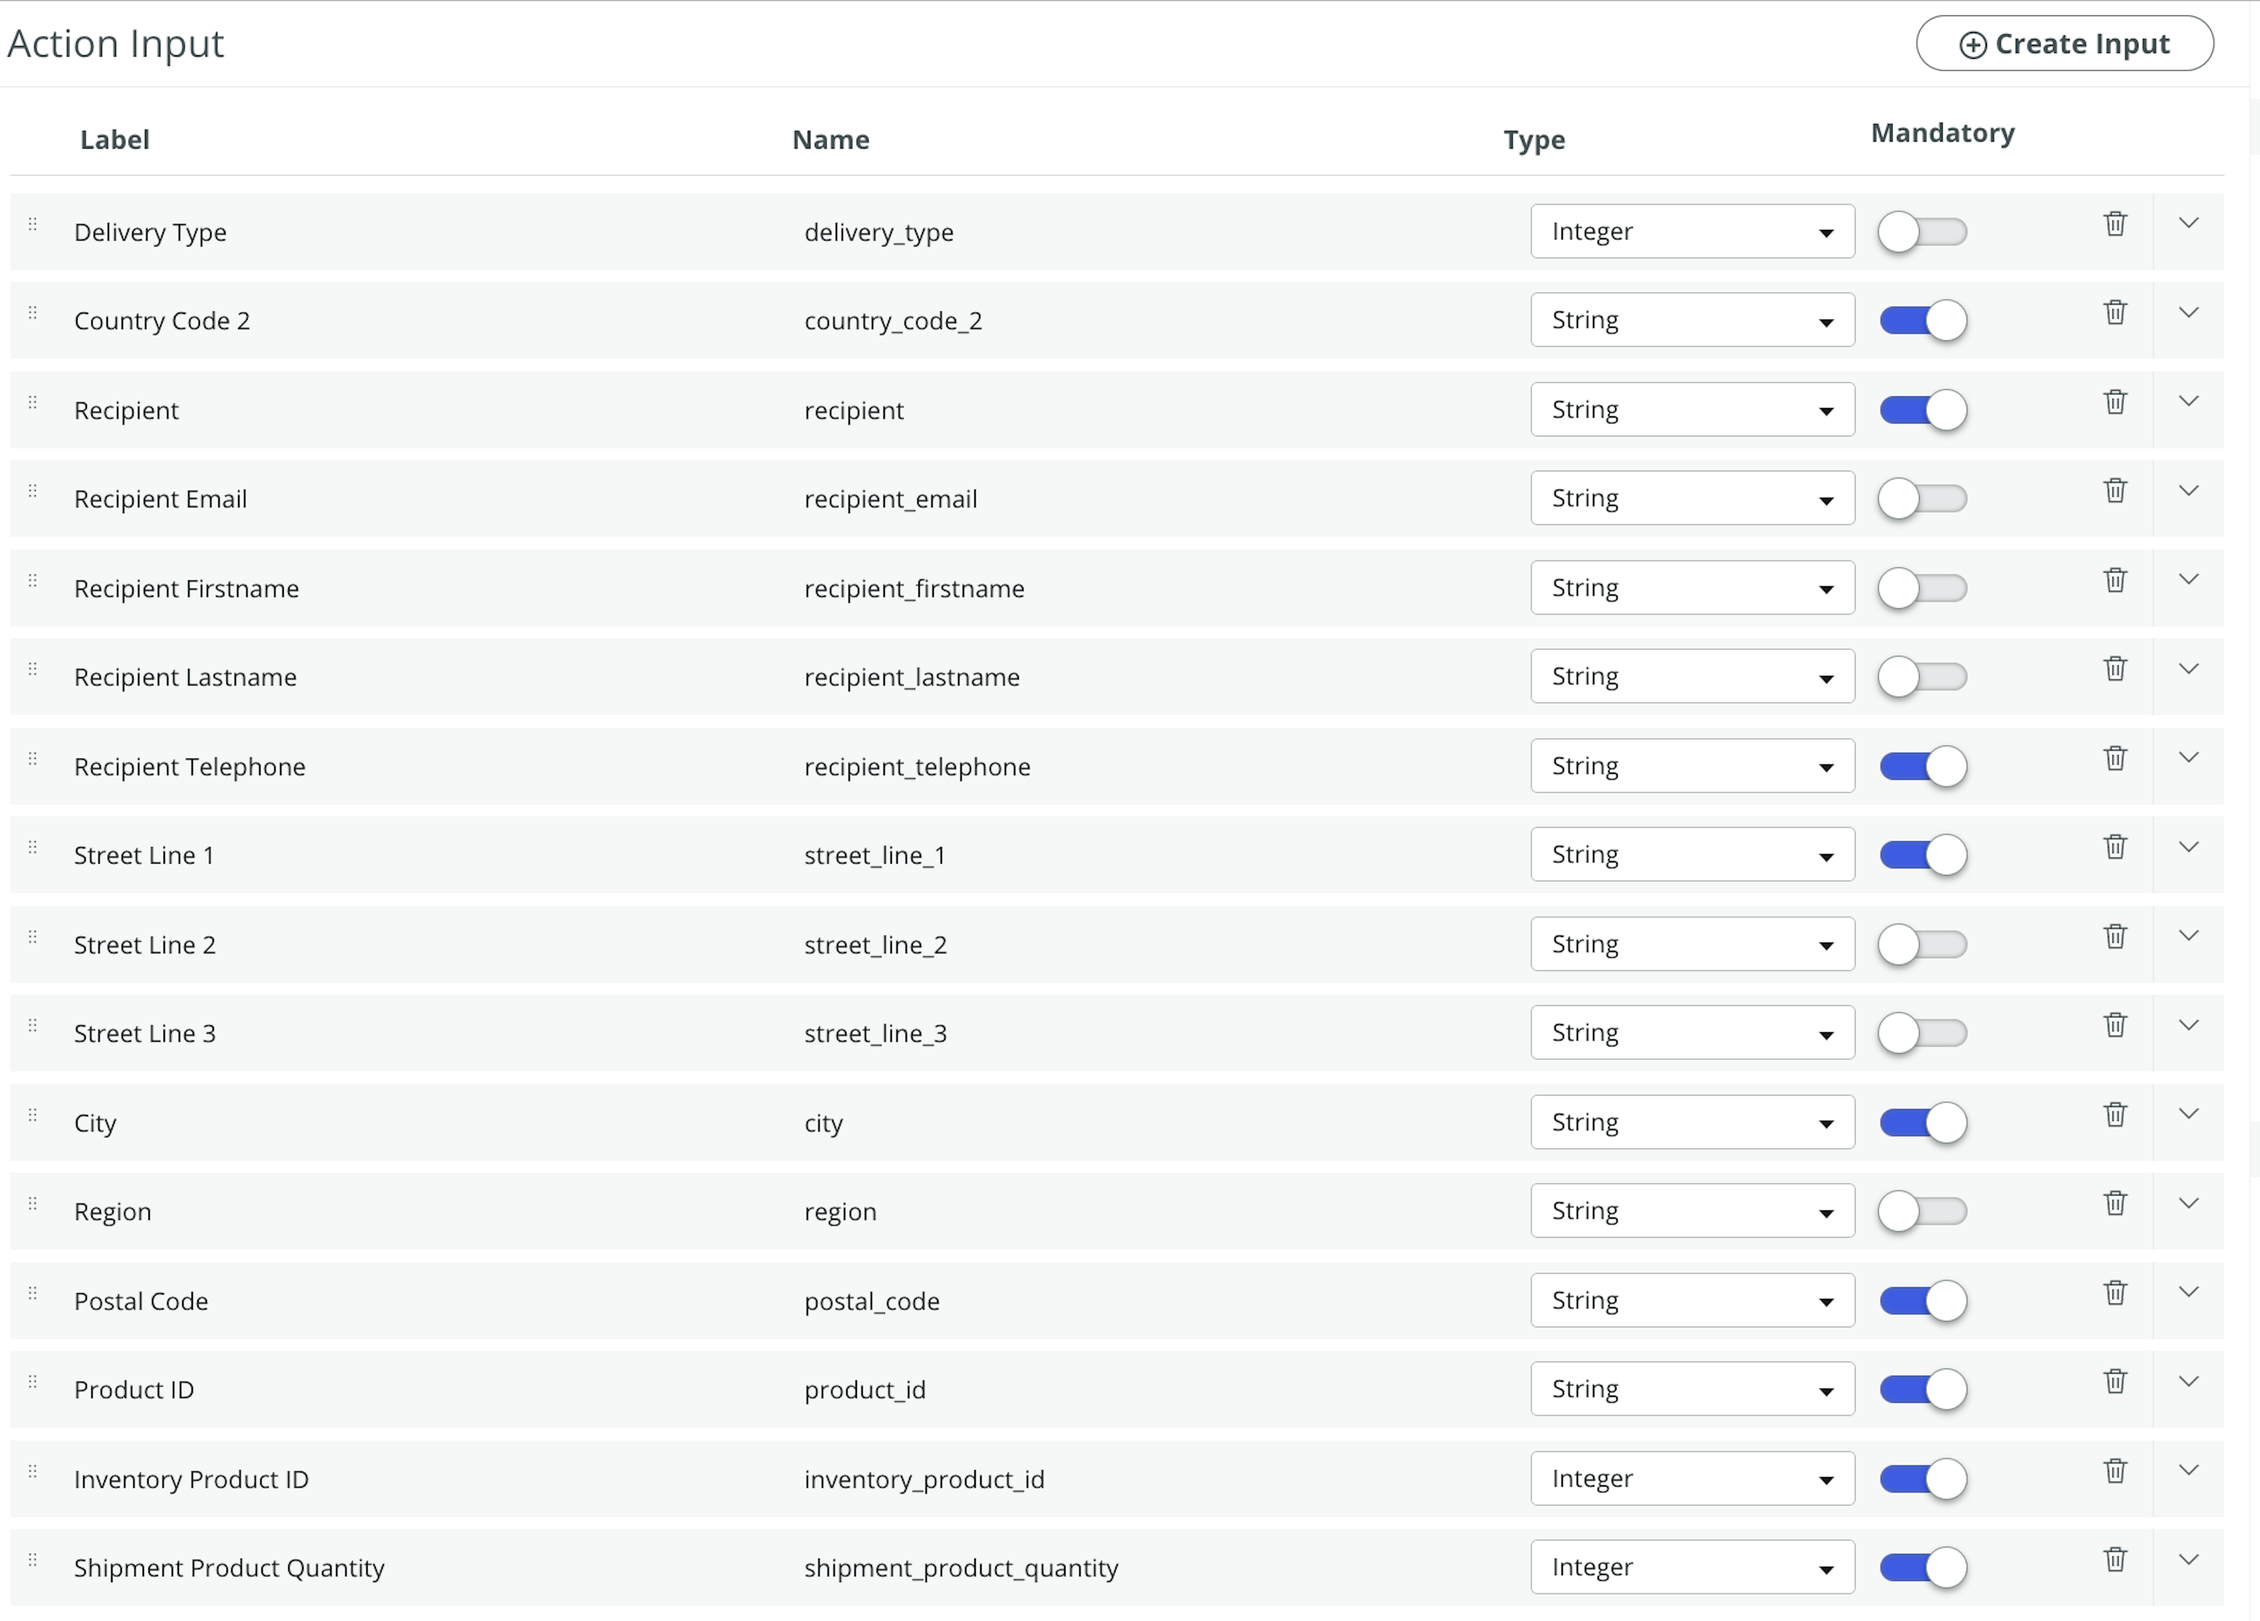
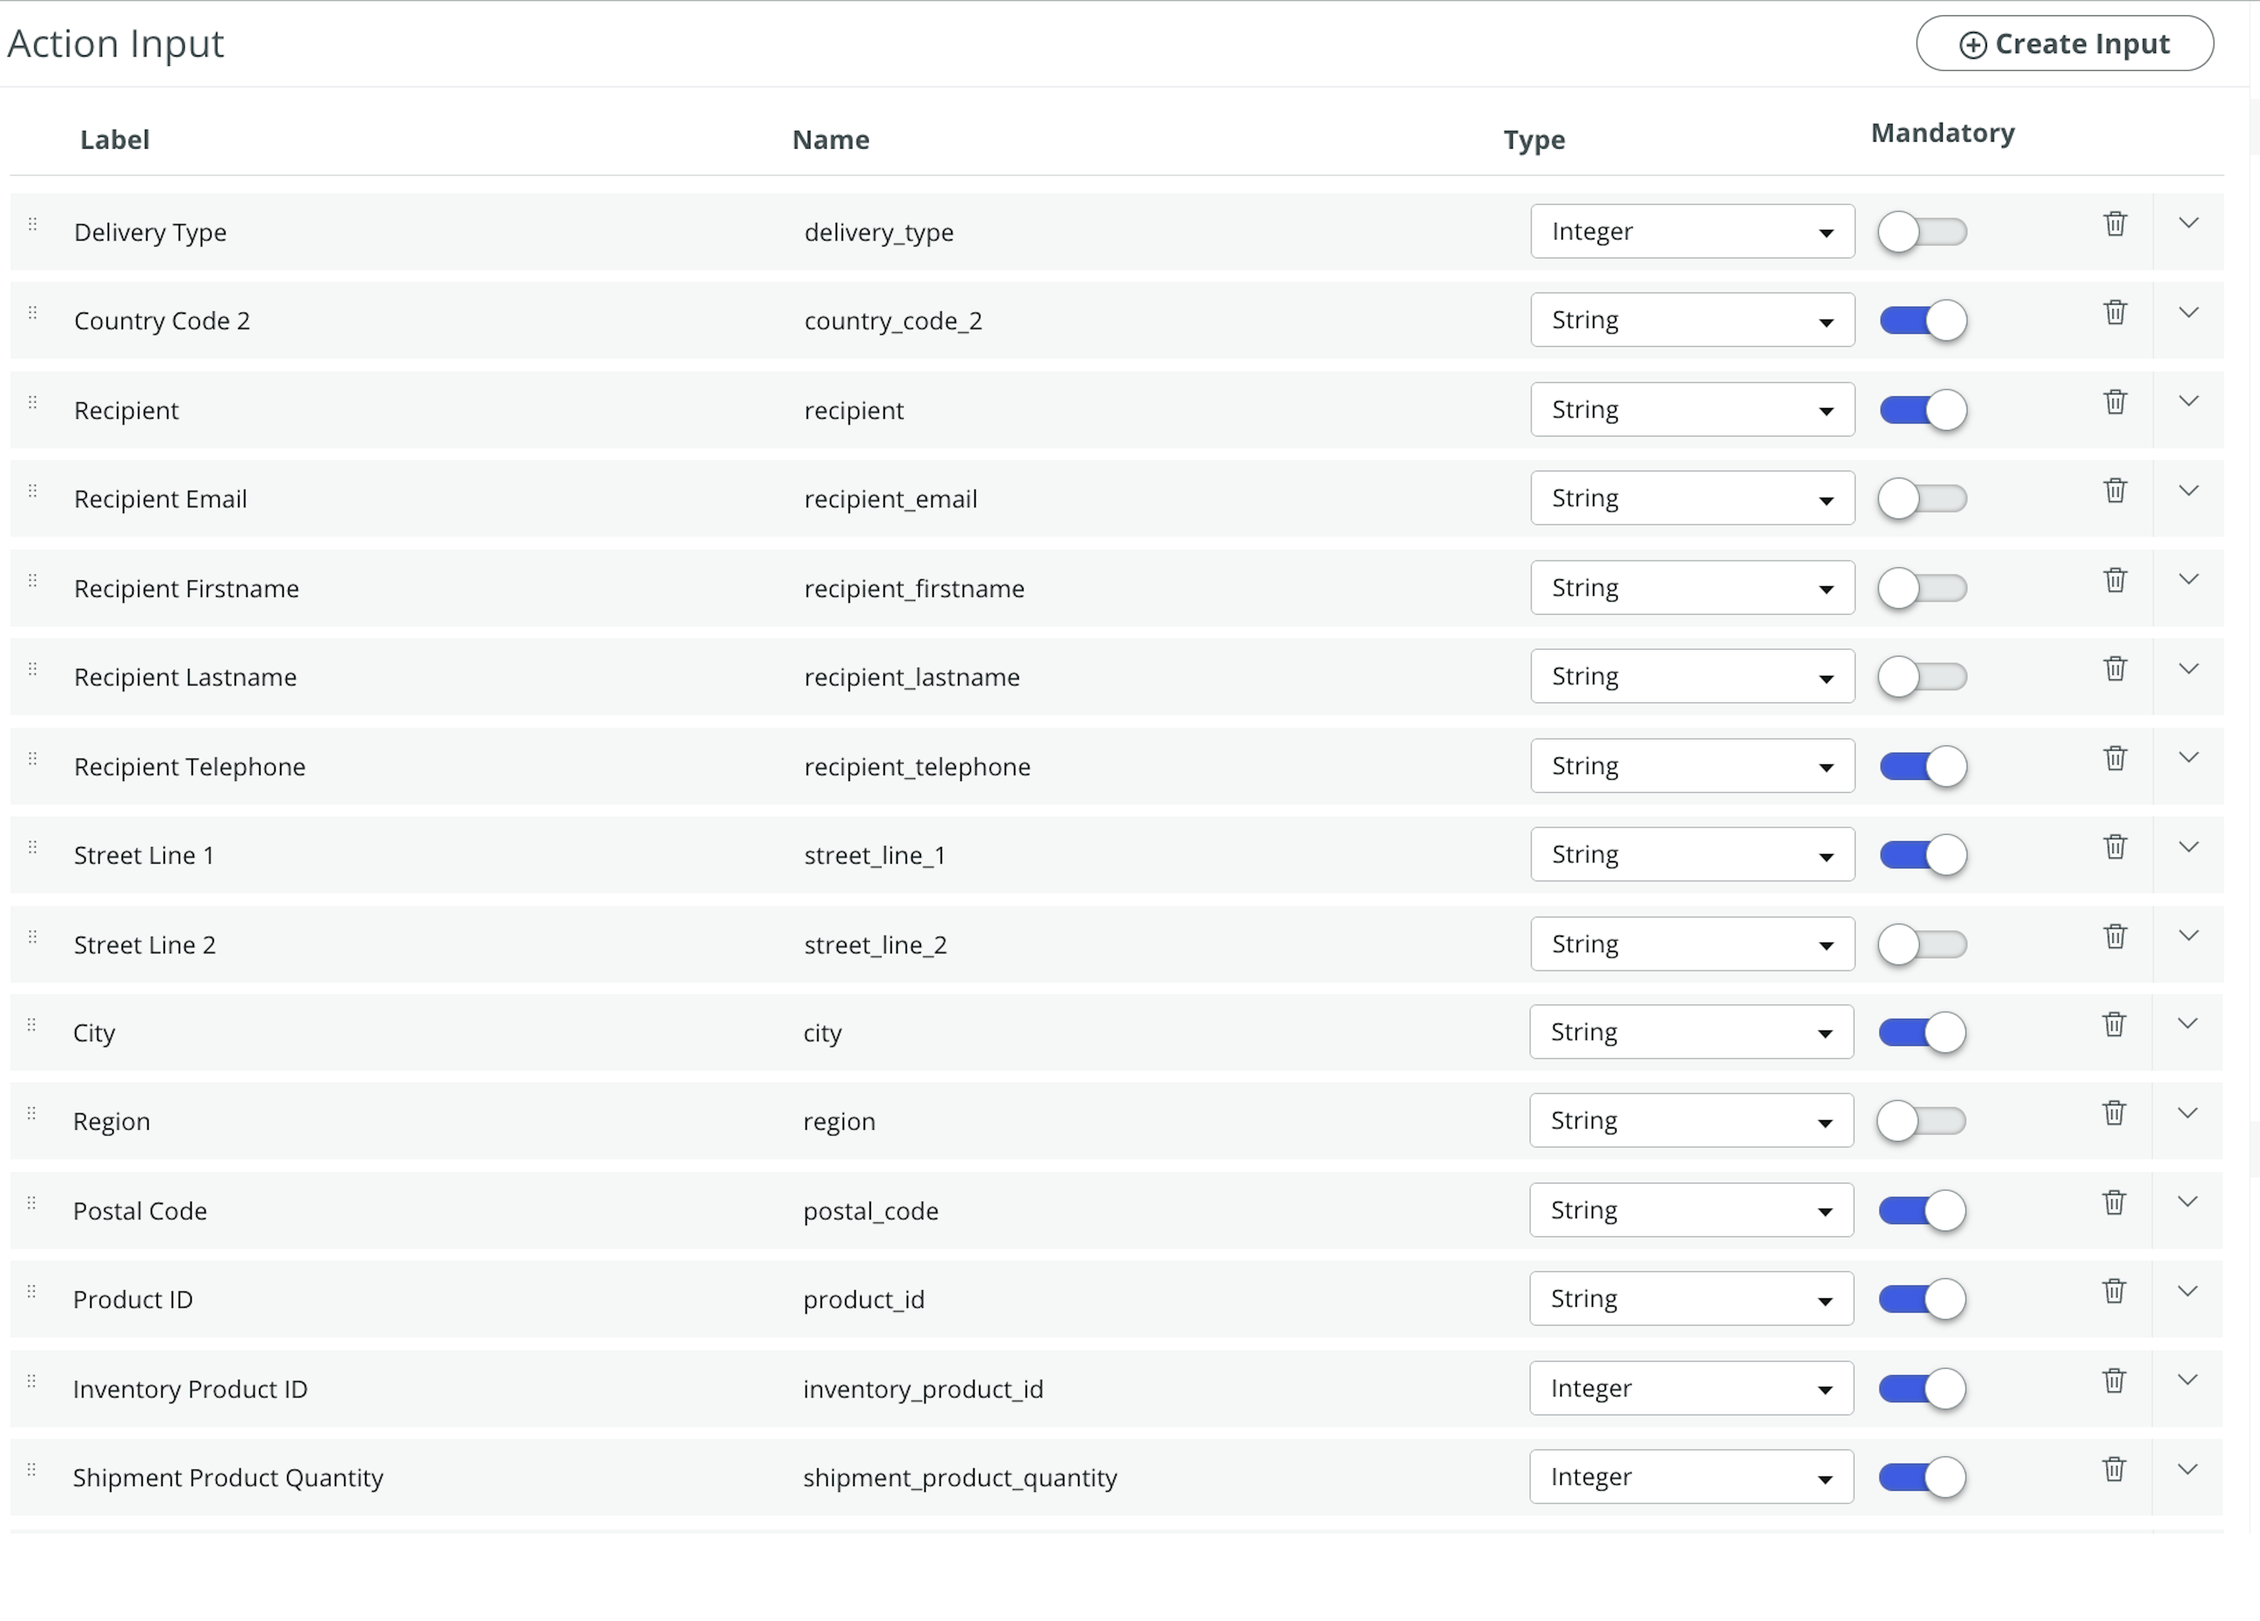
Removed ref to street_line3

diff --git a/docs/docs/action.md b/docs/docs/action.md
@@ -51,7 +51,6 @@ For each row in the table below, perform the following steps:
 | Recipient Telephone       | String  | on        |
 | Street Line 1             | String  | on        |
 | Street Line 2             | String  | off       |
-| Street Line 3             | String  | off       |
 | City                      | String  | on        |
 | Region                    | String  | off       |
 | Postal Code               | String  | on        |
@@ -100,7 +99,6 @@ For each of the items in the table below, do the following steps:
 | recipient_telephone       | Recipient Telephone       |
 | street_line1              | Street Line 1             |
 | street_line2              | Street Line 2             |
-| street_line3              | Street Line 3             |
 | city                      | City                      |
 | region                    | Region                    |
 | postal_code               | Postal Code               |
@@ -127,7 +125,7 @@ Next we are going to add a script to **Script** field. Copy the script provided 
    * recipient: 20
    * recipient_firstname: 15
    * recipient_lastname: 20
-   * street_line_1, 2, and 3: 60
+   * street_line_1, and 2: 60
    * city: 60
    * region: 50
    * recipient_email: 80
@@ -147,7 +145,6 @@ Next we are going to add a script to **Script** field. Copy the script provided 
     recipient_telephone: inputs.recipient_telephone,
     street_line1: inputs.street_line1,
     street_line2: inputs.street_line2,
-    street_line3: inputs.street_line3,
     city: inputs.city,
     region: inputs.region,
     postal_code: inputs.postal_code,

diff --git a/docs/docs/flow.md b/docs/docs/flow.md
@@ -99,7 +99,6 @@ Use the table below to correlate the correct data pill, or hardcoded input to a 
 | Recipient Telephone       | Get Catalog Variable > phone_number                          |
 | Street Line 1             | Get Catalog Variable > street_address                        |
 | Street Line 2             | Get Catalog Variable > apt_or_unit                           |
-| Street Line 3             |                                                              |
 | City                      | Get Catalog Variable > city                                  |
 | Region                    | Get Catalog Variable > region_state                          |
 | Postal Code               | Get Catalog Variable > postal_code                           |

diff --git a/docs/docs/fido-pre-reg/actions/YubiEnterprise/createshipment.md b/docs/docs/fido-pre-reg/actions/YubiEnterprise/createshipment.md
@@ -128,7 +128,7 @@ Next we are going to add a script to **Script** field. Copy the script provided 
    * recipient: 20
    * recipient_firstname: 15
    * recipient_lastname: 20
-   * street_line_1, 2, and 3: 60
+   * street_line_1, and 2: 60
    * city: 60
    * region: 50
    * recipient_email: 80
